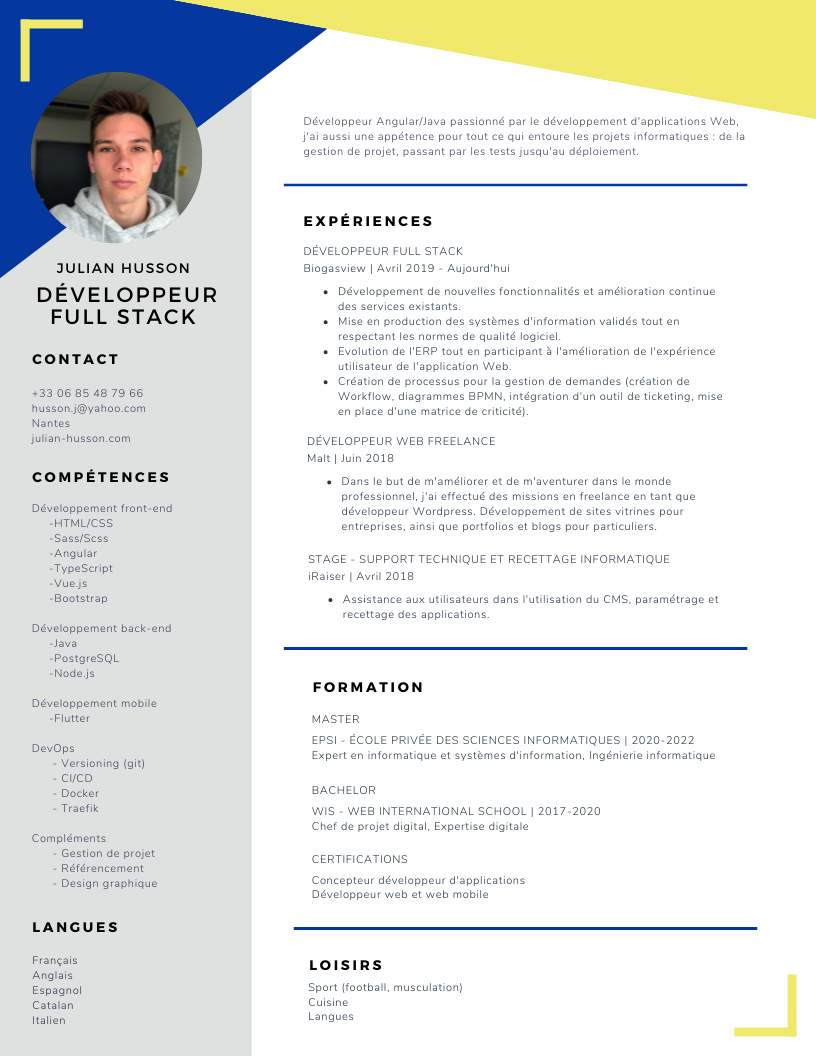
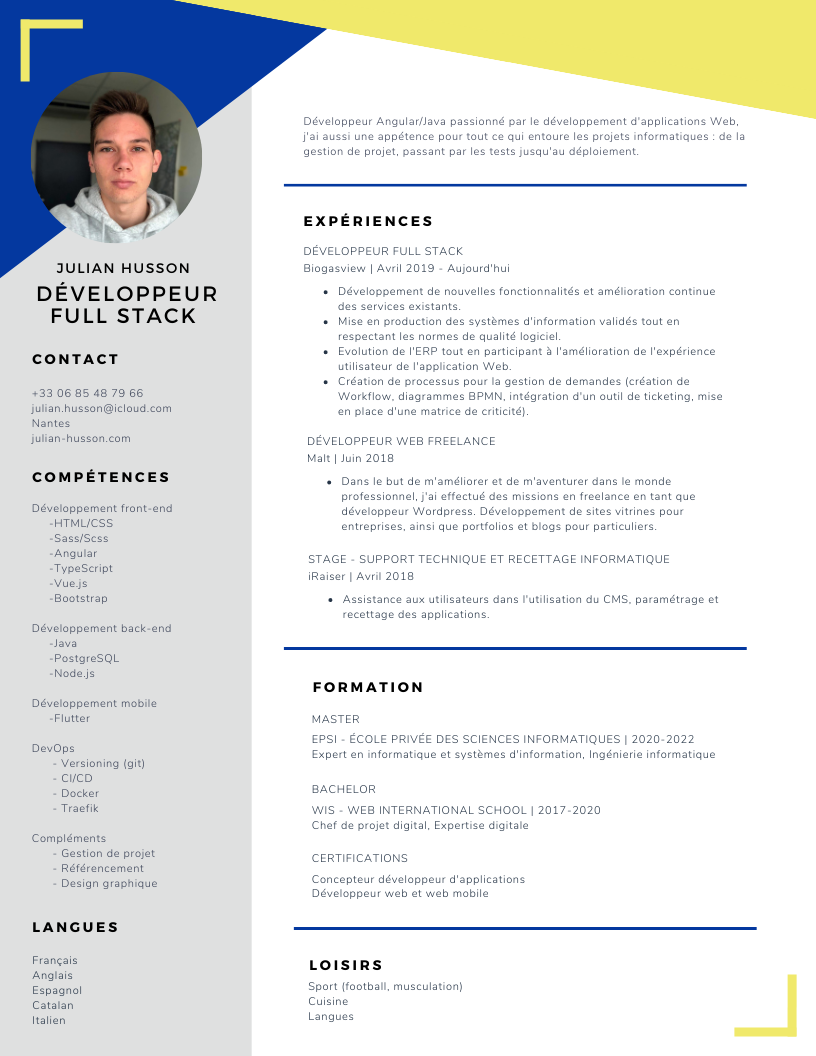
change email provider

diff --git a/src/components/Politique.vue b/src/components/Politique.vue
@@ -14,7 +14,7 @@
       <p>Qui est responsable du traitement de vos données ?</p>
       <p>Personne physique : Julian Husson</p>
       <p>Adresse : 19 Mail Haroun Tazieff, 44300, Nantes</p>
-      <p>Contact : husson.j@yahoo.com | 06 85 48 79 66</p>
+      <p>Contact : julian.husson@icloud.com | 06 85 48 79 66</p>
       <h2>Les informations personnelles que nous collectons :</h2>
       <p>Lorsque vous visitez le <b>julian-husson.com</b>, nous recueillons automatiquement certaines informations sur votre appareil, notamment des informations sur votre navigateur web, votre adresse IP,
         votre fuseau horaire et certains des cookies installés sur votre appareil. En outre, lorsque vous naviguez sur le site, nous recueillons des informations sur les pages web ou
@@ -25,7 +25,7 @@
         cela est absolument nécessaire pour maintenir le site web. Les informations collectées automatiquement sont utilisées uniquement pour identifier les cas potentiels d'abus et établir
         des informations statistiques concernant l'utilisation du site web. Ces informations statistiques ne sont pas autrement agrégées de manière à identifier un utilisateur particulier du
         système.<br>Vous pouvez visiter le site web sans nous dire qui vous êtes ni révéler d'informations, par lesquelles quelqu'un pourrait vous identifier comme un individu spécifique et
-        identifiable. Les utilisateurs qui ne savent pas quelles informations sont obligatoires sont invités à nous contacter via <b>husson.j@yahoo.com</b>.</p>
+        identifiable. Les utilisateurs qui ne savent pas quelles informations sont obligatoires sont invités à nous contacter via <b>julian.husson@icloud.com</b>.</p>
       <h2>Autorisation :</h2>
       <p>Vous nous autorisez à traiter vos données personnelles dès lors que vous cochez la case qui nous autorise de manière expresse à traiter les données que vous nous remettez.</p>
       <iframe style="border: 0; height: 200px; width: 100%;"
@@ -53,7 +53,7 @@
         non autorisés des données personnelles sous son contrôle et sa garde. Toutefois, aucune transmission de données sur Internet ou sur un réseau sans fil ne peut être garantie.</p>
       <h2>Informations de contact :</h2>
       <p>Si vous souhaitez nous contacter pour comprendre davantage la présente politique ou si vous souhaitez nous contacter concernant toute question relative aux droits individuels et à
-        vos informations personnelles, vous pouvez envoyer un courriel à <b>husson.j@yahoo.com</b>.</p>
+        vos informations personnelles, vous pouvez envoyer un courriel à <b>julian.husson@icloud.com</b>.</p>
     </div>
   </div>
 </template>

diff --git a/src/components/Footer.vue b/src/components/Footer.vue
@@ -4,7 +4,7 @@
       <div class="center ta-c">
         <h2 class="yellow-hook">C'est le moment de faire connaisance. <br>Faites le premier pas</h2>
         <p class="pub">(malgré les apparences, cet espace n'est pas sponsorisé par Ikea)</p>
-        <a v-if="this.$route.name === 'Contact'" href="mailto:husson.j@yahoo.com"><button class="draw">Contacter Julian Husson</button></a>
+        <a v-if="this.$route.name === 'Contact'" href="mailto:julian.husson@icloud.com"><button class="draw">Contacter Julian Husson</button></a>
         <button v-else class="draw" @click="this.$router.push({ path: '/contact'})">Contacter Julian Husson</button>
       </div>
     </div>

diff --git a/src/components/Form.vue b/src/components/Form.vue
@@ -45,11 +45,11 @@
             </a>
           </div>
           <div class="item">
-            <a href="mailto:husson.j@yahoo.com">
+            <a href="mailto:julian.husson@icloud.com">
             <span>
              <i class="fas fa-envelope"></i>
             </span>
-            <p>husson.j@yahoo.com</p>
+            <p>julian.husson@icloud.com</p>
             </a>
           </div>
           </div>
@@ -93,7 +93,7 @@ export default {
           })
         } catch(error) {
           this.loading = false;
-          console.log({error})
+          console.log(error.message)
         }
       }
     }

diff --git a/README.md b/README.md
@@ -19,8 +19,8 @@ On my website you will learn all about me and what I do : degrees, certificates,
 
 #### 📲 Get in touch :
 <p align="left">
- <a href="mailto:husson.j@yahoo.com" alt="Yahoo">
-  <img src="https://img.shields.io/badge/-Yahoo-430297?style=flat-square&labelColor=430297&logo=yahoo&logoColor=white&link=husson.j@yahoo.com" /></a>
+ <a href="mailto:julian.husson@icloud.com" alt="Yahoo">
+  <img src="https://img.shields.io/badge/-Yahoo-430297?style=flat-square&labelColor=430297&logo=yahoo&logoColor=white&link=julian.husson@icloud.com" /></a>
   
 <a href="https://www.linkedin.com/in/julian-husson-692067152/" alt="Linkedin">
   <img src="https://img.shields.io/badge/-Linkedin-0e76a8?style=flat-square&logo=Linkedin&logoColor=white&link=https://www.linkedin.com/in/julian-husson-692067152/" /></a>
